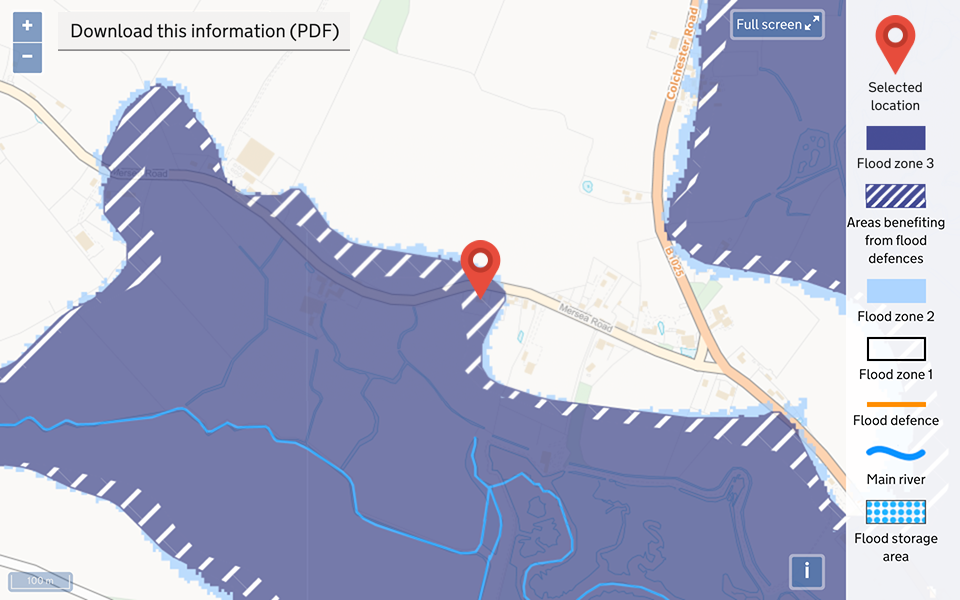
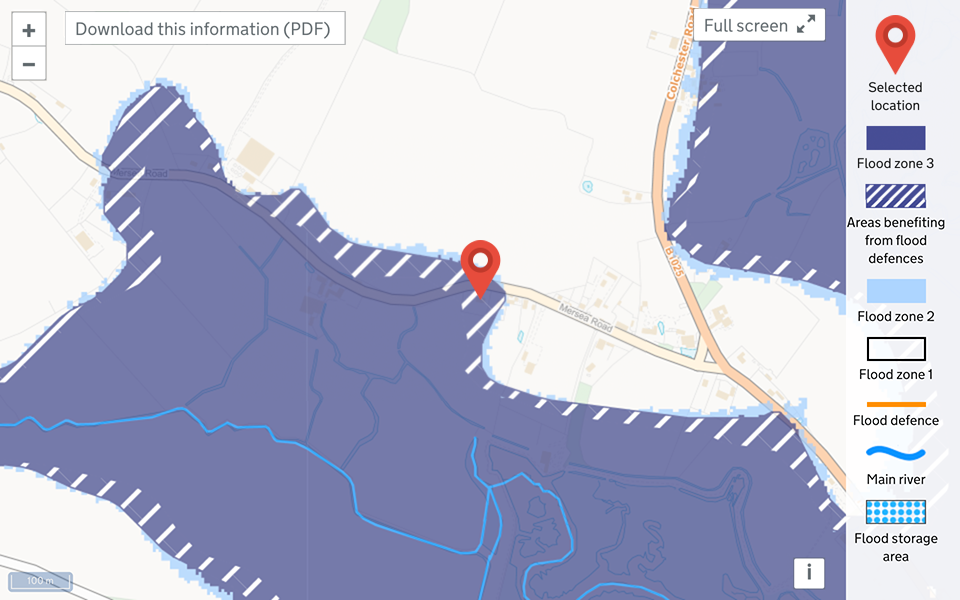
Updated style of map controls

Changed region(s): [[0.0, 0.0, 0.375, 0.15], [0.7188, 0.0, 0.875, 0.09], [0.8125, 0.9, 0.875, 0.99]]

diff --git a/app/assets/sass/application.scss b/app/assets/sass/application.scss
@@ -60,6 +60,7 @@ $govuk-assets-path: '/govuk/assets/';
   position: absolute;
   z-index: 999;
   background: #fff;
+  border: 1px solid rgba(98,106,110,.5);
   padding-left: 14px;
   top: 1rem;
   right: 1rem;
@@ -77,5 +78,22 @@ $govuk-assets-path: '/govuk/assets/';
 
 .blue-inset {
   border-color: #5694ca;
-  background-color: #eef4fa;  
+  background-color: #eef4fa;
+}
+
+
+// Map control overwrites
+// govuk-colour("dark-grey")	#626a6e
+// govuk-colour("mid-grey")	#b1b4b6
+
+.ol-control {
+  background-color: rgba(98,106,110,.5) !important;
+  border-radius: 0 !important;
+  padding: 0 !important;
+}
+
+.ol-control button {
+  color: #626a6e !important;
+  background-color: rgba(255,255,255,1) !important;
+  font-size: 1.5em !important;
 }

diff --git a/lib/extensions/_extensions.scss b/lib/extensions/_extensions.scss
@@ -1,1 +1,1 @@
-$govuk-extensions-url-context: "/extension-assets"; @import "/Users/carolinevickers/Documents/GitHub/fmfp-prototype/node_modules/govuk-frontend/govuk/all.scss";
+$govuk-extensions-url-context: "/extension-assets"; @import "/Users/robinparker/Documents/GitHub/fmfp-prototype/node_modules/govuk-frontend/govuk/all.scss";
